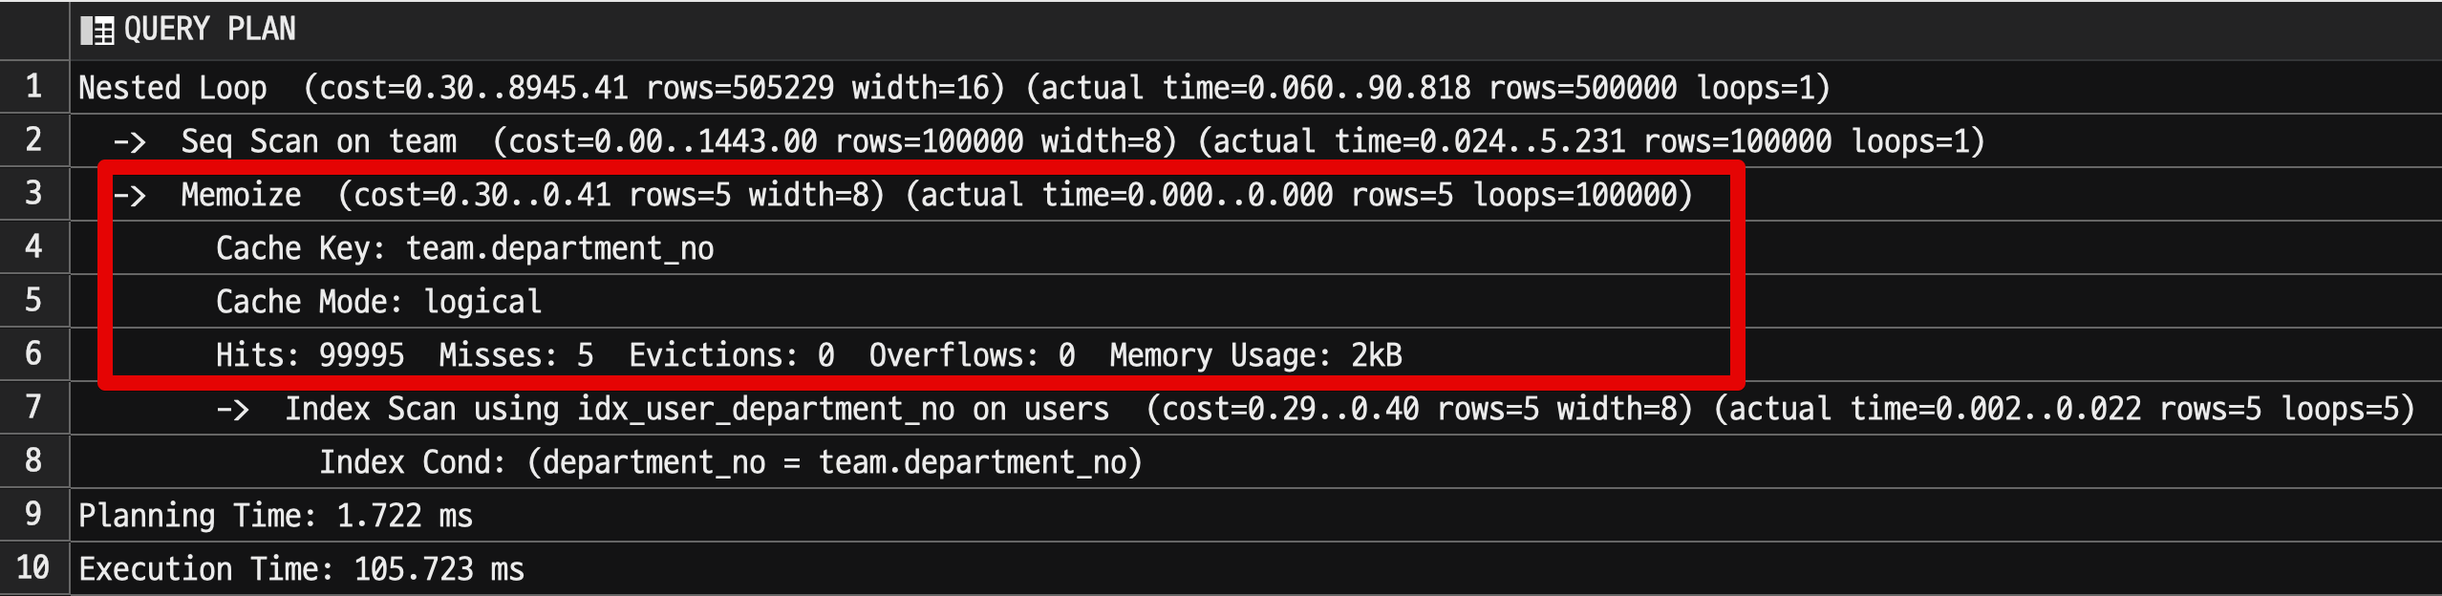
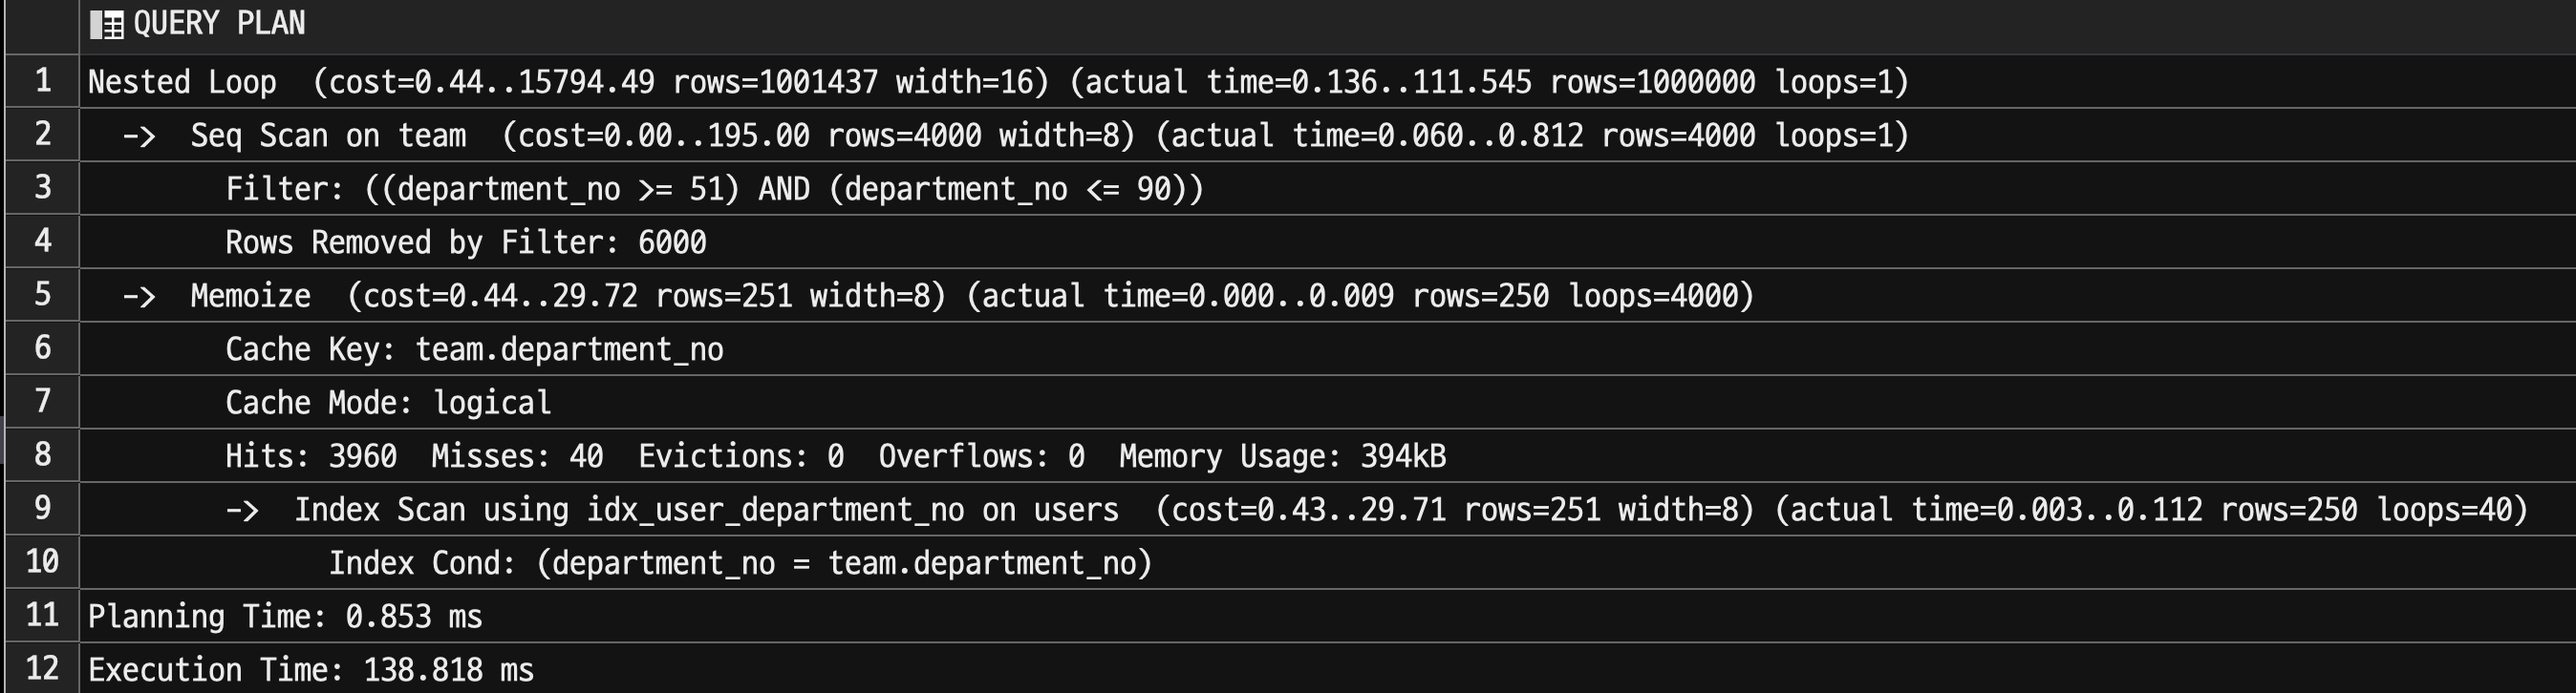
실험 종료

Changed region(s): [[0.0, 0.0, 1.0, 1.0]]

diff --git a/13_vs_14_join/README.md b/13_vs_14_join/README.md
@@ -1,6 +1,6 @@
 # PostgreSQL14 Memoize (13 vs 14 Nested Loop Join 성능 비교)
 
-PostgreSQL에서는 3가지의 Join을 지원한다.
+PostgreSQL에서는 3가지의 Join 알고리즘을 지원한다.
 
 - Nested loop join
 - Hash join
@@ -8,7 +8,7 @@ PostgreSQL에서는 3가지의 Join을 지원한다.
 
 이 중 Nested loop join 은 가장 보편적인 Join 방식으로 그 작동 방식에는 결국 반복적인 스캔이 있다.  
 
-만약 반복적인 스캔에서 동일한 결과가 보장될때 이 결과를 캐시해두고 반복적인 스캔에서 계속 사용한다면 어떨까?    
+만약 반복적인 스캔의 하위 결과가 매번 같다면 이를 **캐시해두고 반복적인 스캔에서 계속 사용**한다면 어떨까?    
   
 PostgreSQL 14에서는 [memoize](https://postgresqlco.nf/doc/en/param/enable_memoize/) 의 도입으로 가능해졌다.  
   
@@ -16,8 +16,7 @@ PostgreSQL 14에서는 [memoize](https://postgresqlco.nf/doc/en/param/enable_mem
 
 ![aurora-versions](./images/aurora-versions.png)
 
-이번엔 해당 옵션과 그 전 버전인 PG 13과의 성능 비교를 진행해보자.
-
+이번엔 해당 옵션으로 인한 성능 개선을 알아보자.
 
 ## 성능 테스트
 
@@ -50,21 +49,21 @@ AWS Aurora PostgreSQL을 사용한다면 다음과 같이 파라미터 그룹에
 ```sql
 CREATE TABLE team AS
 SELECT team_no, team_no % 100 AS department_no
-FROM generate_series(1, 10000) AS team_no;
+FROM generate_series(1, 50000) AS team_no;
 
 CREATE TABLE users AS
-SELECT user_no, user_no % 20000 as department_no
+SELECT user_no, user_no % 20000 as department_no, now() as created_at
 FROM generate_series(1, 5000000) AS user_no;
 
 CREATE INDEX idx_user_department_no ON users (department_no);
 ```
 
 - `team`
-  - 10,000 row (1만건)
-  - 1 ~ 100개의 `department_no`
+  - 50,000 row (5만건)
+  - 1 ~ 100 사이의 `department_no`
 - `users`
   - 5,000,000 row (500만건)
-  - 1 ~ 20,000 개의 `department_no`
+  - 1 ~ 20,000 사이의 `department_no`
   - Join 성능 향상을 위한 index (`department_no`)
 
 위와 같이 테이블을 생성 한 뒤, 이제 실험을 진행한다.
@@ -113,6 +112,8 @@ END$$;
 
 PG 13에서는 다음과 같은 실행 계획을 가진다.
 
+![explain13](./images/explain13.png)
+
 그리고 실행 결과는 
 
 ![pg13_1](./images/pg13_1.png)
@@ -128,6 +129,12 @@ PG 14는 2가지 종류로 진행된다.
 - `enable_memoize` 를 `OFF` 한 경우
 
 #### enable_memoize ON
+
+실행계획은 다음과 같다.
+
+![explain14](./images/explain14.png)
+
+13버전과 달리 **Nested Loop**가 적용된다.
 
 ![pg14_1](./images/pg14_1.png)
 
@@ -195,6 +202,53 @@ Memoize 노드가 호출될 때마다 전달된 매개변수 값에 해당하는
 
 
 
+## lateral 성능 테스트
+
+위 실험을 하다보면 [lateral](https://www.heap.io/blog/postgresqls-powerful-new-join-type-lateral) 은 얼마나 성능 개선이 될지 궁금해진다.  
+Sub Query 간 상호 참조가 가능한 `lateral` 은 Cache 효율이 굉장히 잘 나올것 같다.
+
+> `lateral` 에 대해선 다음에 좀 더 자세히 정리할 예정이다.
+  
+다음의 쿼리로 13, 14버전에서 테스트해보자.
+
+```sql
+select *
+from (select team_no, department_no 
+    from team 
+    where team_no between 50 and 40000) t,
+lateral (
+    select user_no
+    from users
+    where t.department_no = users.department_no
+    ) u
+```
+
+이를 각 10회 수행한다.
+
+### lateral PG 13
+
+![lateral_plan13](./images/lateral_plan13.png)
+
+![pg13_2](./images/pg13_2.png)
+
+### lateral PG 14
+
+![lateral_plan14](./images/lateral_plan14.png)
+
+- 전체 반복 횟수: 39,951
+  - `loops: 39951` 
+- 
+
+![pg14_2](./images/pg14_2.png)
+
+테스트 결과 `lateral` 에서는 약 20%의 성능 개선이 있었다.  
+다만, **loop의 횟수가 많을수록 이 개선은 더 효과를 본다**.  
+현재는 약 3~4만회의 횟수를 반복하기 때문에 20%의 차이이지,  
+만약 수십만 loop가 필요한 경우에는 이보다 훨씬 더 효과를 볼 수 있을것 같다.
+
+![1000x](./images/1000x.png)
+
+(출처: [트위터](https://twitter.com/RPorsager/status/1455660236375826436))
 
 ## 마무리
 
